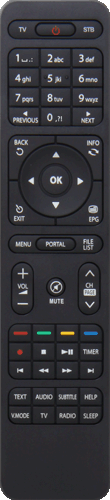
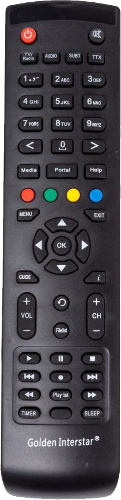
Add mising images for Golder Interstar xpeed c/s2 models
Current xpeedlx picture is totally wrong for xpeed c/s2 models, add the correct one.
Also add the missing box picture from xpeed c model, the s2 has exacly the same look.

Finally identify xpeed models as Golder Interstar in owibranding.

diff --git a/plugin/public/static/remotes/xpeedlx.html b/plugin/public/static/remotes/xpeedlx.html
@@ -1,54 +1,55 @@
 <img border='0' src='/images/remotes/xpeedlx.png' usemap='#map' >
 <map name="map">
-	<area shape="circle" coords="55,30,12" alt="Power" onclick="pressMenuRemote('116');">
-	<area shape="circle" coords="24,57,12" alt="1" onclick="pressMenuRemote('2');">
-	<area shape="circle" coords="55,57,12" alt="2" onclick="pressMenuRemote('3');">
-	<area shape="circle" coords="87,57,12" alt="3" onclick="pressMenuRemote('4');">
-	<area shape="circle" coords="24,77,12" alt="4" onclick="pressMenuRemote('5');">
-	<area shape="circle" coords="55,77,12" alt="5" onclick="pressMenuRemote('6');">
-	<area shape="circle" coords="87,77,12" alt="6" onclick="pressMenuRemote('7');">
-	<area shape="circle" coords="24,97,12" alt="7" onclick="pressMenuRemote('8');">
-	<area shape="circle" coords="55,97,12" alt="8" onclick="pressMenuRemote('9');">
-	<area shape="circle" coords="87,97,12" alt="9" onclick="pressMenuRemote('10');">
-	<area shape="circle" coords="24,116,12" alt="previous" onclick="pressMenuRemote('412');">
-	<area shape="circle" coords="55,116,12" alt="0" onclick="pressMenuRemote('11');">
-	<area shape="circle" coords="87,116,12" alt="next" onclick="pressMenuRemote('407');">
-	<area shape="circle" coords="19,147,10" alt="back" onclick="pressMenuRemote('412');">
-	<area shape="circle" coords="92,147,10" alt="info" onclick="pressMenuRemote('358');">
-	<area shape="circle" coords="19,212,10" alt="exit" onclick="pressMenuRemote('174');">
-	<area shape="circle" coords="92,212,10" alt="epg" onclick="pressMenuRemote('365');">
-	<area shape="circle" coords="55,154,12" alt="up" onclick="pressMenuRemote('103');">
-	<area shape="circle" coords="55,206,12" alt="down" onclick="pressMenuRemote('108');">
-	<area shape="circle" coords="29,180,12" alt="left" onclick="pressMenuRemote('105');">
-	<area shape="circle" coords="81,180,12" alt="right" onclick="pressMenuRemote('106');">
-	<area shape="circle" coords="55,180,15" alt="OK" onclick="pressMenuRemote('352');">
-	<area shape="circle" coords="22,243,10" alt="menu" onclick="pressMenuRemote('139');">
-	<area shape="circle" coords="55,244,12" alt="portal" onclick="pressMenuRemote('156');">
-	<area shape="circle" coords="89,244,12" alt="filelist" onclick="pressMenuRemote('393');">
-	<area shape="circle" coords="22,273,15" alt="volume up" onclick="pressMenuRemote('115');">
-	<area shape="circle" coords="22,303,15" alt="volume down" onclick="pressMenuRemote('114');">
-	<area shape="circle" coords="55,287,10" alt="mute" onclick="pressMenuRemote('113');">
-	<area shape="circle" coords="89,273,10" alt="channel up" onclick="pressMenuRemote('402');">
-	<area shape="circle" coords="89,303,10" alt="channel down" onclick="pressMenuRemote('403');">
-	<area shape="circle" coords="20,332,10" alt="red" onclick="pressMenuRemote('398');">
-	<area shape="circle" coords="44,332,10" alt="green" onclick="pressMenuRemote('399');">
-	<area shape="circle" coords="67,332,10" alt="yellow" onclick="pressMenuRemote('400');">
-	<area shape="circle" coords="91,332,10" alt="blue" onclick="pressMenuRemote('401');">
-	<area shape="circle" coords="20,351,12" alt="record" onclick="pressMenuRemote('167');">
-	<area shape="circle" coords="44,351,12" alt="stop" onclick="pressMenuRemote('128');">
-	<area shape="circle" coords="67,351,12" alt="play" onclick="pressMenuRemote('207');">
-	<area shape="circle" coords="67,351,12" alt="pause" onclick="pressMenuRemote('119');">
-	<area shape="circle" coords="91,351,12" alt="timer" onclick="pressMenuRemote('362');">
-	<area shape="circle" coords="20,370,12" alt="rrw" onclick="pressMenuRemote('165');">
-	<area shape="circle" coords="44,370,12" alt="rewind" onclick="pressMenuRemote('168');">
-	<area shape="circle" coords="67,370,12" alt="forward" onclick="pressMenuRemote('208');">
-	<area shape="circle" coords="91,370,12" alt="ffw" onclick="pressMenuRemote('163');">
-	<area shape="circle" coords="20,396,12" alt="text" onclick="pressMenuRemote('388');">
-	<area shape="circle" coords="44,396,12" alt="audio" onclick="pressMenuRemote('392');">
-	<area shape="circle" coords="67,396,12" alt="subtitle" onclick="pressMenuRemote('370');">
-	<area shape="circle" coords="91,396,12" alt="help" onclick="pressMenuRemote('138');">
-	<area shape="circle" coords="20,415,12" alt="av" onclick="pressMenuRemote('227');">
-	<area shape="circle" coords="44,415,12" alt="tv" onclick="pressMenuRemote('377');">
-	<area shape="circle" coords="67,415,12" alt="radio" onclick="pressMenuRemote('385');">
-	<area shape="circle" coords="91,415,12" alt="sleep" onclick="pressMenuRemote('142');">
+	<area shape="circle" coords="28,36,10" alt="power" onclick="pressMenuRemote('116');">
+	<area shape="circle" coords="96,36,10" alt="mute" onclick="pressMenuRemote('113');">
+	<area shape="circle" coords="28,58,10" alt="tv" onclick="pressMenuRemote('377');">
+	<area shape="circle" coords="28,60,10" alt="radio" onclick="pressMenuRemote('385');">
+	<area shape="circle" coords="52,58,10" alt="audio" onclick="pressMenuRemote('392');">
+	<area shape="circle" coords="74,58,10" alt="subtitle" onclick="pressMenuRemote('370');">
+	<area shape="circle" coords="96,58,10" alt="text" onclick="pressMenuRemote('388');">
+	<area shape="circle" coords="28,81,10" alt="1" onclick="pressMenuRemote('2');">
+	<area shape="circle" coords="60,81,10" alt="2" onclick="pressMenuRemote('3');">
+	<area shape="circle" coords="94,81,10" alt="3" onclick="pressMenuRemote('4');">
+	<area shape="circle" coords="28,102,10" alt="4" onclick="pressMenuRemote('5');">
+	<area shape="circle" coords="60,102,10" alt="5" onclick="pressMenuRemote('6');">
+	<area shape="circle" coords="94,102,10" alt="6" onclick="pressMenuRemote('7');">
+	<area shape="circle" coords="28,125,10" alt="7" onclick="pressMenuRemote('8');">
+	<area shape="circle" coords="60,125,10" alt="8" onclick="pressMenuRemote('9');">
+	<area shape="circle" coords="94,125,10" alt="9" onclick="pressMenuRemote('10');">
+	<area shape="circle" coords="28,147,10" alt="previous" onclick="pressMenuRemote('412');">
+	<area shape="circle" coords="60,147,10" alt="0" onclick="pressMenuRemote('11');">
+	<area shape="circle" coords="94,147,10" alt="next" onclick="pressMenuRemote('407');">
+	<area shape="circle" coords="28,171,10" alt="media" onclick="pressMenuRemote('226');">
+	<area shape="circle" coords="60,171,10" alt="homepage" onclick="pressMenuRemote('172');">
+	<area shape="circle" coords="94,171,10" alt="help" onclick="pressMenuRemote('138');">
+	<area shape="circle" coords="28,195,9" alt="red" onclick="pressMenuRemote('398');">
+	<area shape="circle" coords="50,195,9" alt="green" onclick="pressMenuRemote('399');">
+	<area shape="circle" coords="74,195,9" alt="yellow" onclick="pressMenuRemote('400');">
+	<area shape="circle" coords="96,195,9" alt="blue" onclick="pressMenuRemote('401');">
+	<area shape="circle" coords="24,216,10" alt="menu" onclick="pressMenuRemote('139');">
+	<area shape="circle" coords="97,216,10" alt="exit" onclick="pressMenuRemote('174');">
+	<area shape="circle" coords="61,222,10" alt="up" onclick="pressMenuRemote('103');">
+	<area shape="circle" coords="38,244,10" alt="left" onclick="pressMenuRemote('105');">
+	<area shape="circle" coords="61,244,10" alt="ok" onclick="pressMenuRemote('352');">
+	<area shape="circle" coords="83,244,10" alt="right" onclick="pressMenuRemote('106');">
+	<area shape="circle" coords="61,268,10" alt="down" onclick="pressMenuRemote('108');">
+	<area shape="circle" coords="26,277,10" alt="epg" onclick="pressMenuRemote('365');">
+	<area shape="circle" coords="96,277,10" alt="info" onclick="pressMenuRemote('358');">
+	<area shape="circle" coords="26,300,10" alt="volume up" onclick="pressMenuRemote('115');">
+	<area shape="circle" coords="26,330,10" alt="volume down" onclick="pressMenuRemote('114');">
+	<area shape="circle" coords="60,304,10" alt="back" onclick="pressMenuRemote('158');">
+	<area shape="circle" coords="60,330,10" alt="file" onclick="pressMenuRemote('144');">
+	<area shape="circle" coords="96,300,10" alt="channel up" onclick="pressMenuRemote('402');">
+	<area shape="circle" coords="96,330,10" alt="channel down" onclick="pressMenuRemote('403');">
+	<area shape="circle" coords="28,358,10" alt="play" onclick="pressMenuRemote('207');">
+	<area shape="circle" coords="60,358,10" alt="pause" onclick="pressMenuRemote('119');">
+	<area shape="circle" coords="92,358,10" alt="stop" onclick="pressMenuRemote('128');">
+	<area shape="circle" coords="28,377,10" alt="skiprewind" onclick="pressMenuRemote('412');">
+	<area shape="circle" coords="60,377,10" alt="record" onclick="pressMenuRemote('167');">
+	<area shape="circle" coords="92,377,10" alt="skipforward" onclick="pressMenuRemote('407');">
+	<area shape="circle" coords="28,396,10" alt="rewind" onclick="pressMenuRemote('168');">
+	<area shape="circle" coords="60,396,10" alt="list" onclick="pressMenuRemote('395');">
+	<area shape="circle" coords="92,396,10" alt="fastforward" onclick="pressMenuRemote('208');">
+	<area shape="circle" coords="28,414,10" alt="timer" onclick="pressMenuRemote('362');">
+	<area shape="circle" coords="92,414,10" alt="sleep" onclick="pressMenuRemote('142');">
 </map>

diff --git a/plugin/controllers/models/owibranding.py b/plugin/controllers/models/owibranding.py
@@ -183,6 +183,9 @@ def getAllInfo():
 		if procmodel.startswith("et"):
 			brand = "Xtrend"
 			model = procmodel.upper()
+		elif procmodel.startswith("xpeed"):
+			brand = "Golden Interstar"
+			model = procmodel
 		elif procmodel.startswith("xp"):
 			brand = "MaxDigital"
 			model = procmodel
